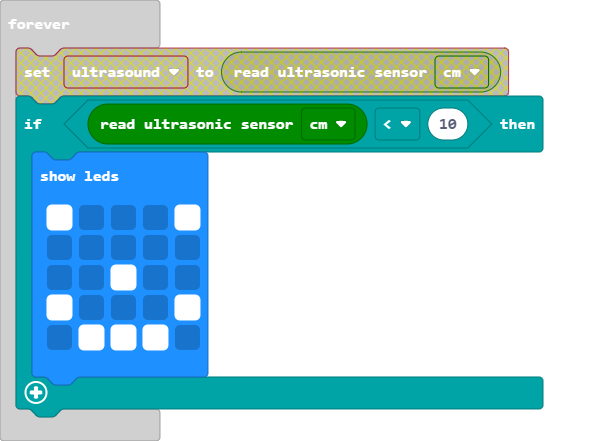
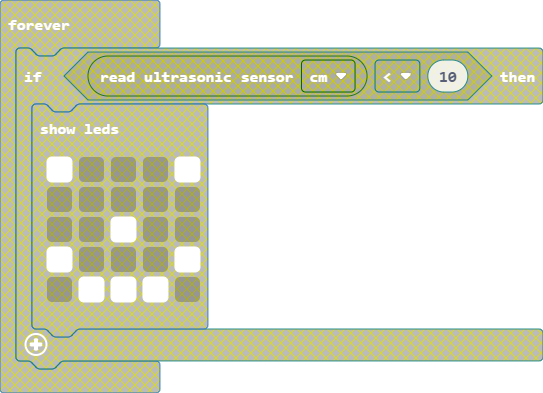
Update pxt.json, main.blocks, main.ts

diff --git a/main.ts b/main.ts
@@ -93,17 +93,6 @@ basic.forever(function () {
     }
 })
 basic.forever(function () {
-    if (maqueen.Ultrasonic(PingUnit.Centimeters) < 10) {
-        basic.showLeds(`
-            # . . . #
-            . . . . .
-            . . # . .
-            # . . . #
-            . # # # .
-            `)
-    }
-})
-basic.forever(function () {
     if (status == 1) {
         music.playMelody("B - B - B - B - ", 120)
     }
